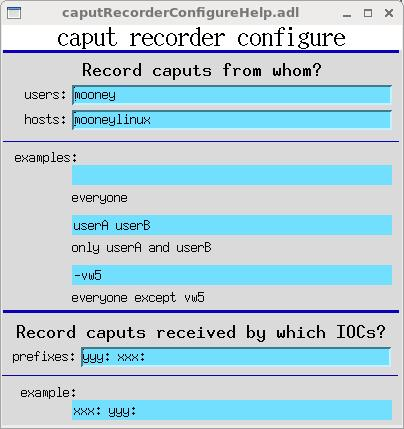
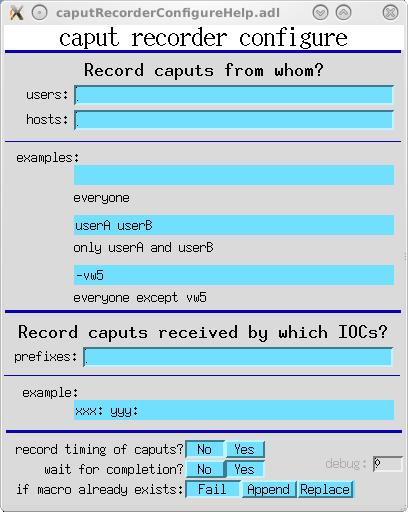
If macro exists in macro file, allow Fail/Append/Replace Option to try to reproduce timing of caputs wait for completion is an option

diff --git a/documentation/caputRecorder.html b/documentation/caputRecorder.html
@@ -7,35 +7,64 @@
 
 <P><center><IMG SRC="caputRecorder_small.adl.jpg"><br>caputRecorder_small.adl</IMG></center>
 
-<P>caputRecorder supports the recording and playback of a series of caputs.  It records each caput as a python
-command, and a series of caputs as a python function - also called here a
-<b><i>macro</i></b>.  caputRecorder can also serve as a simple user interface
-for delivering canned python functions to end users.
+<h2>Table of Contents</h2>
+<ul>
+  <li><a href="#Overview">Overview</a></li>
+  <li><a href="#How does this work?">How does this work?</a></li>
+  <li><a href="#Requirements, configuration">Requirements, configuration</a></li>
+  <li><a href="#How to use">How to use</a></li>
+  <li><a href="#Selecting what gets recorded">Selecting what gets recorded</a></li>
+  <li><a href="#Record options">Record options</a></li>
+  <li><a href="#Discussion">Discussion</a></li>
+</ul>
 
-<blockquote>
 
-<i>caput</i> is short for "Channel Access put".  When you press a button, or
-make a menu selection, in an MEDM (or EDM, caQtDM, CSS-BOY, etc.) display, you
-are doing a caput.  Any program that writes to EPICS PVs does so by doing
-caputs.
+<a name="Overview"></a> <h2>Overview</h2> <P>caputRecorder supports the recording
+and playback of sequences of caputs.  It records each caput as a python command,
+and a sequence of caputs as a python function&mdash;also called here a
+<b><i>macro</i></b>.  caputRecorder can also serve as a simple user interface for
+delivering canned python functions to end users.  caputRecorder communicates with
+users via an EPICS database, which can be displayed by MEDM, caQtDM, CSS-BOY, or EDM. 
+Thus, it allows any EPICS record or channel-access client to run python functions
+and wait for them to complete.
 
+<blockquote><font size="-1">
+
+<i>caput</i> is short for "Channel Access put".  When you press a button, or make
+a menu selection, in an MEDM (or other display manager) display, you are doing a
+caput.  Any program that writes to EPICS PVs does so by doing caputs. </font>
 </blockquote>
 
-<P>One use for caputRecorder is to orchestrate measurements involving several
-series of steps that users know how to do manually, but for which no software
-has been written.  If users can do a measurement step manually while the
-recorder is on, they will in effect have written software to automate that
-measurement step, and they can then combine several such steps as needed to
-perform a particular instance of the measurement type.
+<P>caputRecorder also supports generalizing recorded macros with arguments. 
+(This requires manual editing of python code.) It provides a user interface
+through which macro arguments are displayed with default values that can be
+changed via channel access.
 
-<P>Another use is to improve communication between users and software
+<P>caputRecorder is intended to meet the following kinds needs:
+
+<ul>
+<li><P>Automate measurements involving several sequences of steps that users
+know how to do manually, but for which no software has been written.  If users
+can do a measurement step manually while the recorder is on, they will in effect
+have written software to automate that measurement step, and they can then
+combine several such steps as needed to perform a particular instance of the
+measurement type.
+
+<li><P>Improve communication between users and software
 developers who support them.  Rather than describing needed software in general
 terms, or laboriously listing required steps, a user can simply record them, and
 hand the developer the equivalent python code.
 
-<P>Another use is to assist in troubleshooting, by recording the exact sequence
+<li><P>Assist in troubleshooting, by recording the exact sequence
 of caputs that produced a problem.
 
+<li><P>Automate testing, by recording sequences of caputs that succeed with the
+current version of some software, and playing them back to verify that they also
+succeed with the new version.
+
+</ul>
+
+<a name="How does this work"></a>
 <H2> How does this work? </h2>
 
 EPICS access security has the ability to call a user function whenever a caput
@@ -50,17 +79,29 @@ user-interface PVs are monitored by the python program caputRecorder.py, and
 direct its operation.  When caputRecorder.py is given a macro name and told
 to record, it begins monitoring the caput-notification PVs of specified IOCs,
 and writes python commands corresponding to each notification into the python
-program file macros.py.
+program file macros.py.  Here's what a typical command looks like:
+
+<blockquote>
+<pre>
+epics.caput("xxx:scan1.P1PV","xxx:m2.VAL", wait=True, timeout=300)
+</pre>
+
+This writes the string "xxx:m2.VAL" to "xxx:scan1.P1PV", and waits up to 300
+seconds for any EPICS processing that might result from the command to complete.
+
+</blockquote>
 
 <P>caputRecorder.py also inspects the file macros.py and writes the names of
-macros in the file to a set of EPICS menus (that is, to mbbo records).  A user
-can select a macro name from those menus, and tell caputRecorder to execute that
-macro.
+macros in the file to a set of EPICS menus (that is, to the menu-string fields
+of mbbo records).  A user can select a macro name from those menus, and tell
+caputRecorder to execute that macro.
 
 <P>Thus, each IOC is responsible for telling caputRecorder that it received a
-caput, and one IOC also hosts the database that tells caPutRecorder what to do.
+caput, and one IOC also hosts the database through which the user tells
+caPutRecorder what to do.
 
-<H2> Requirements, configuration </h2>
+<a name="Requirements, configuration"></a>
+<H2>Requirements, configuration</h2>
 
 The caputRecorder database uses record types from the synApps
 <a href="http://www.aps.anl.gov/bcda/synApps/busy/busy.html">busy</a>
@@ -73,9 +114,9 @@ the <a href="http://cars.uchicago.edu/software/python/pyepics3">PyEpics</a>
 module installed.
 
 <P>EPICS IOCs that participate in caputRecorder, either by posting the caputs
-they receive, or by hosting caputRecorder's user interface, must be prepared as
-follows.  (These are excerpts from the synApps xxx module, release R5-8, which
-is already configured to use caputRecorder.)
+they receive, or by hosting the database that functions as caputRecorder's user
+interface, must be prepared as follows.  (These are excerpts from the synApps
+xxx module, release R5-8, which is already configured to use caputRecorder.)
 
 <ol>
 <li><P>Add <code>CAPUTRECORDER</code> to the IOC's RELEASE file
@@ -198,8 +239,8 @@ a sample copy of a script that does this for Linux here:
 <pre>caputRecorder/example_start_putrecorder</pre>
 
 It is important that only one copy of caputRecorder.py (for a given
-user-interface database) is running at a time. caputRecorder detects the launch
-of a new copy of itself that uses the same control PVs, and exits.
+user-interface database) is running at a time. caputRecorder.py detects the
+launch of a new copy of itself that uses the same control PVs, and exits.
 
 
 <P><dt>MACROS_PY<dd>The path to the file macros.py, in which caputs will be
@@ -213,6 +254,7 @@ by the "!edit macros.py" button described below.
 
 </ol>
 
+<a name="How to use"></a>
 <h2>How to use</h2>
 
 <P><center><IMG SRC="caputRecorder.adl.jpg"><br>caputRecorder.adl</IMG></center>
@@ -225,9 +267,7 @@ by the "!edit macros.py" button described below.
 program caputRecorder.py.
 
 <li><P>The heart symbol to the right of the "!(re)start recorder" button blinks
-while caputRecorder.py is running and responsive to its control PVs.  After the
-control IOC reboots, caputRecorder remains unresponsive for 10 seconds, to avoid
-misconstruing initial monitors from control PVs as commands to execute.
+while caputRecorder.py is running and responsive to its control PVs.
 
 <li><P><b>Inputs</b>
 
@@ -254,7 +294,8 @@ the time in seconds that python will wait for completion of a macro command
 that does a caput to an EPICS PV, before going on to the next command. 
 "Completion" means completion of any EPICS processing that results from the
 execution of that caput.  It's ok to change this time while a macro is being
-recorded.
+recorded.  (Note that you can tell caputRecorder to <i>not</i> wait for
+completion.  See <a href="#Record options">Record options</a>.)
 
 </ul>
 
@@ -263,21 +304,23 @@ name" should contain the name of the macro (python function) you want to
 record.  Note that you aren't permitted to use a macro name that already exists
 in macros.py. Also note that the macro name must start with a letter, and must
 consist of letters digits, and underscores.  caputRecorder will enforce this by
-prepending "a" or replacing offending characters with underscores.  The maximum
-length of a macro name is 25 characters; this is enforced by the length of an
-mbboRecord string field.
+prepending "a" and/or replacing offending characters with underscores.  The
+maximum length of a macro name is 25 characters; this limit is set by the length
+of an mbboRecord's menu-string field.
 
 <li><P>The choice button labelled "record puts" is used to start and stop
 recording.  While recording, you can write to EPICS PVs via any EPICS client,
 and you can also execute any macro that has already been recorded.
 
 <li><P>If you execute macro <b>A</b> while recording macro <b>B</b>, and then
-stop recording while macro <b>A</b> is still executing, you must wait for
-macro <b>A</b> to finish before starting a new recording of another macro.
+stop recording while macro <b>A</b> is still executing, caputRecorder will make
+you wait for macro <b>A</b> to finish before allowing you to start a new
+recording of another macro.
 
 <li><P>When you execute macro <b>A</b> while recording macro <b>B</b>,
-caputRecorder will suppress recording of the caputs from macro <b>A</b>, and
-will simply record a function call to macro <b>A</b> in macro <b>B</b>.
+caputRecorder will suppress recording of the caputs that result from the
+execution of macro <b>A</b>, and will simply record a function call to macro
+<b>A</b> in macro <b>B</b>.
 
 </ul>
 
@@ -312,8 +355,13 @@ to tell caputRecorder to reread the file. (If you deleted a function definition
 from macros.py, reloading isn't sufficient; you must restart
 caputRecorder, using the "!(re)start recorder" button.)
 
-<li><P>The "Refresh Menus" button is needed whenever macros.py has
-changed, whether by recording a macro, or by manually editing the file.
+<li><P>The "Refresh Menus" button must be pressed whenever menus have changed. 
+This happens when macro recording is done, after you press the "!(re)start
+recorder" button, after you press the "Reload Menus" button, and after the
+controlling IOC reboots.  caputRecorder will tell you when menus need to be
+refreshed by showing the blinking text "PRESS REFRESH".  This blinking text will
+go away when <i>any</i> instance of caputRecorder.adl, or
+caputRecorder_small.adl, is refreshed.
 
 </ul>
 
@@ -332,7 +380,7 @@ any other abort-related work specified in the function named "_abort" in
 macros.py.  The supplied <i>example_macros.py</i> defines an abort
 function that aborts scans, halts motors, and stop the scaler named "scaler1".
 
-<li><P>An EPICS client or record can trigger macro execution by writing a macro
+<li><P>Any EPICS client or record can trigger macro execution by writing a macro
 name to "$(P)caputRecorderMacro", and then writing "Do" (or the number 1) to 
 "$(P)caputRecorderExecuteMacro".  The client should wait for completion after
 both writes, to ensure that any default argument values are in place before
@@ -342,6 +390,7 @@ executing, and to wait for macro execution to finish.
 
 </ul>
 
+<a name="Selecting what gets recorded"></a>
 <H2> Selecting what gets recorded </h2>
 
 You probably don't want to record all caputs that happen among your IOCs and
@@ -360,10 +409,10 @@ in the figure below.)  Only the first element of a host name need be specified. 
 example, "mooneylinux.aps.anl.gov" is used as "mooneylinux".)
 
 <P><li>You can choose which IOCs caputRecorder monitors, by specifying prefixes
-to <code>caputRecorderPrefixes</code>.  (See "Record caputs received by which IOCs?" in
-the figure below.)  Unlike user and host choices, this choice does not take
-effect while a macro is being recorded.  Also unlike user and host choices, this
-choice is not about the sender of a caput, but about the recipient.
+to <code>caputRecorderPrefixes</code>.  (See "Record caputs received by which
+IOCs?" in the figure below.)  Unlike user and host choices, this choice does not
+take effect while a macro is being recorded.  Also unlike user and host choices,
+this choice is not about the sender of a caput, but about the recipient.
 
 <P>On startup, caputRecorder monitors the iocs whose prefixes are specified on the
 command line.  If <code>caputRecorderPrefixes</code> is not empty, it will
@@ -374,6 +423,37 @@ through access security.
 
 <P><center><IMG SRC="caputRecorderConfigure.adl.jpg"><br>caputRecorderConfigure.adl</IMG></center>
 
+<a name="Record options"></a>
+<H2> Record options </h2>
+
+<P>The timing of caputs will, in general, be different on replay than when
+recorded, but you can tell caputRecorder to try to reproduce the timing.  If you
+select "Yes" for "record timing of caputs?" (see diagram above), caputRecorder
+will insert delays between caput commands.  You can change this setting while
+recording. Note that if caputRecorder waits for completion, the required delay
+time could be negative, in which case caputRecorder will insert no delay.
+
+<P>You can choose whether or not caputRecorder will wait for completion after
+executing recorded caputs, by setting "wait for completion?" (see diagram
+above). Note that this affects the python code written while recording, and is
+not an execute-time choice. You can change this setting while recording.
+
+<P>If you attempt to record a macro whose name is already defined in macros.py,
+caputRecorder will do one of three things, depending on the setting of the
+"if macro already exists:" switch:
+<dl>
+
+<dt><b>Fail</b><dd>Refuse to start recording, and set the Stop/Start switch back to Stop.
+
+<dt><b>Append</b><dd>Move the macro to the end of the file, and begin appending commands to it.
+
+<dt><b>Replace</b><dd>Delete the existing macro, and begin a new macro with that name.  In this case,
+caputRecorder will write a backup copy of macros.py, named "macros.py_yymmdd-HHMMSS", where "yy..." is
+the current date and time.
+
+</dl>
+
+<a name="Discussion"></a>
 <H2> Discussion </h2>
 
 <ul>
@@ -397,7 +477,7 @@ Reload will overwrite objects in the live macros module with values from
 macros.py, but it will not delete any objects.  If you delete a function
 definition or a global variable from macros.py, reloading won't remove it from
 the live copy of the macros module; you have to restart python, which you can do
-by pressing the "(re)start recorder" button.
+by pressing the "!(re)start recorder" button.
 
 <li><P>
 caputRecorder records a caput with the following python code:
@@ -435,6 +515,6 @@ asTrapListener, and caputRecorder R1-4 and later will use this capability if it
 is present.
 
 <li><P>caputRecorder R1-4 monitors the connection status of one of its PVs, and
-exits of that PV remains disconnected for more than 10 seconds.
+exits if that PV remains disconnected for more than 10 seconds.
 
  </BODY>
